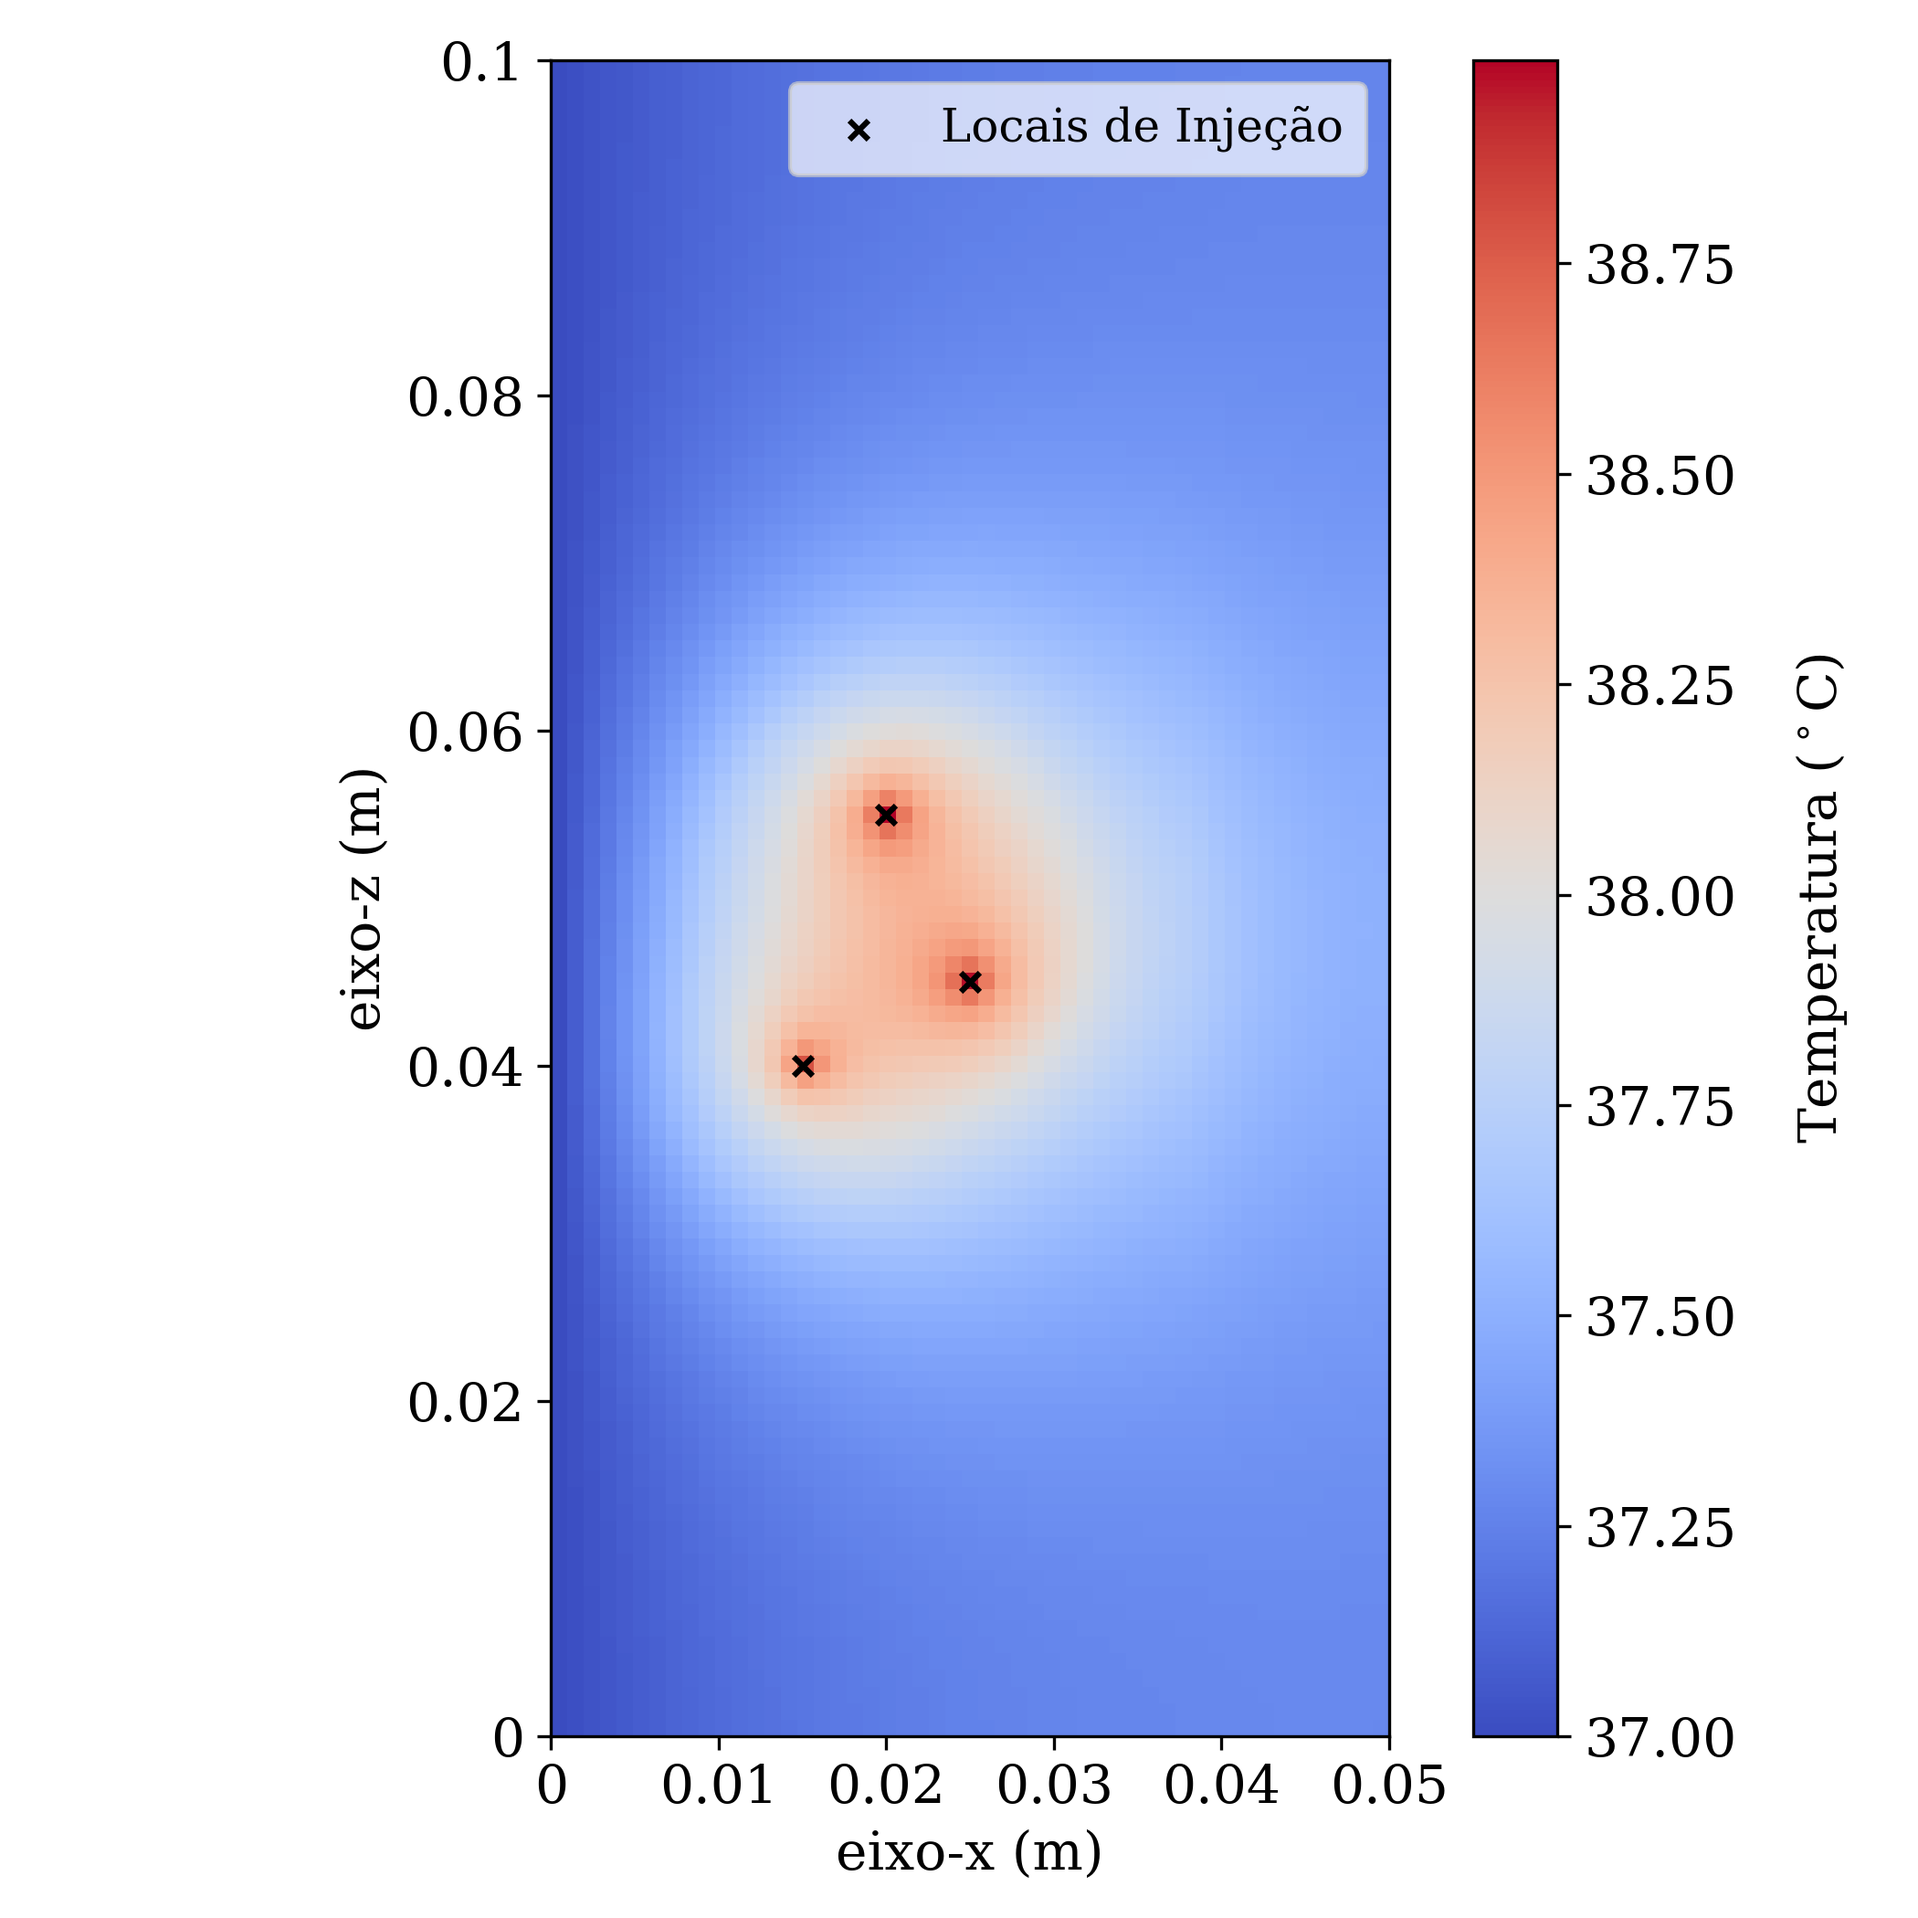
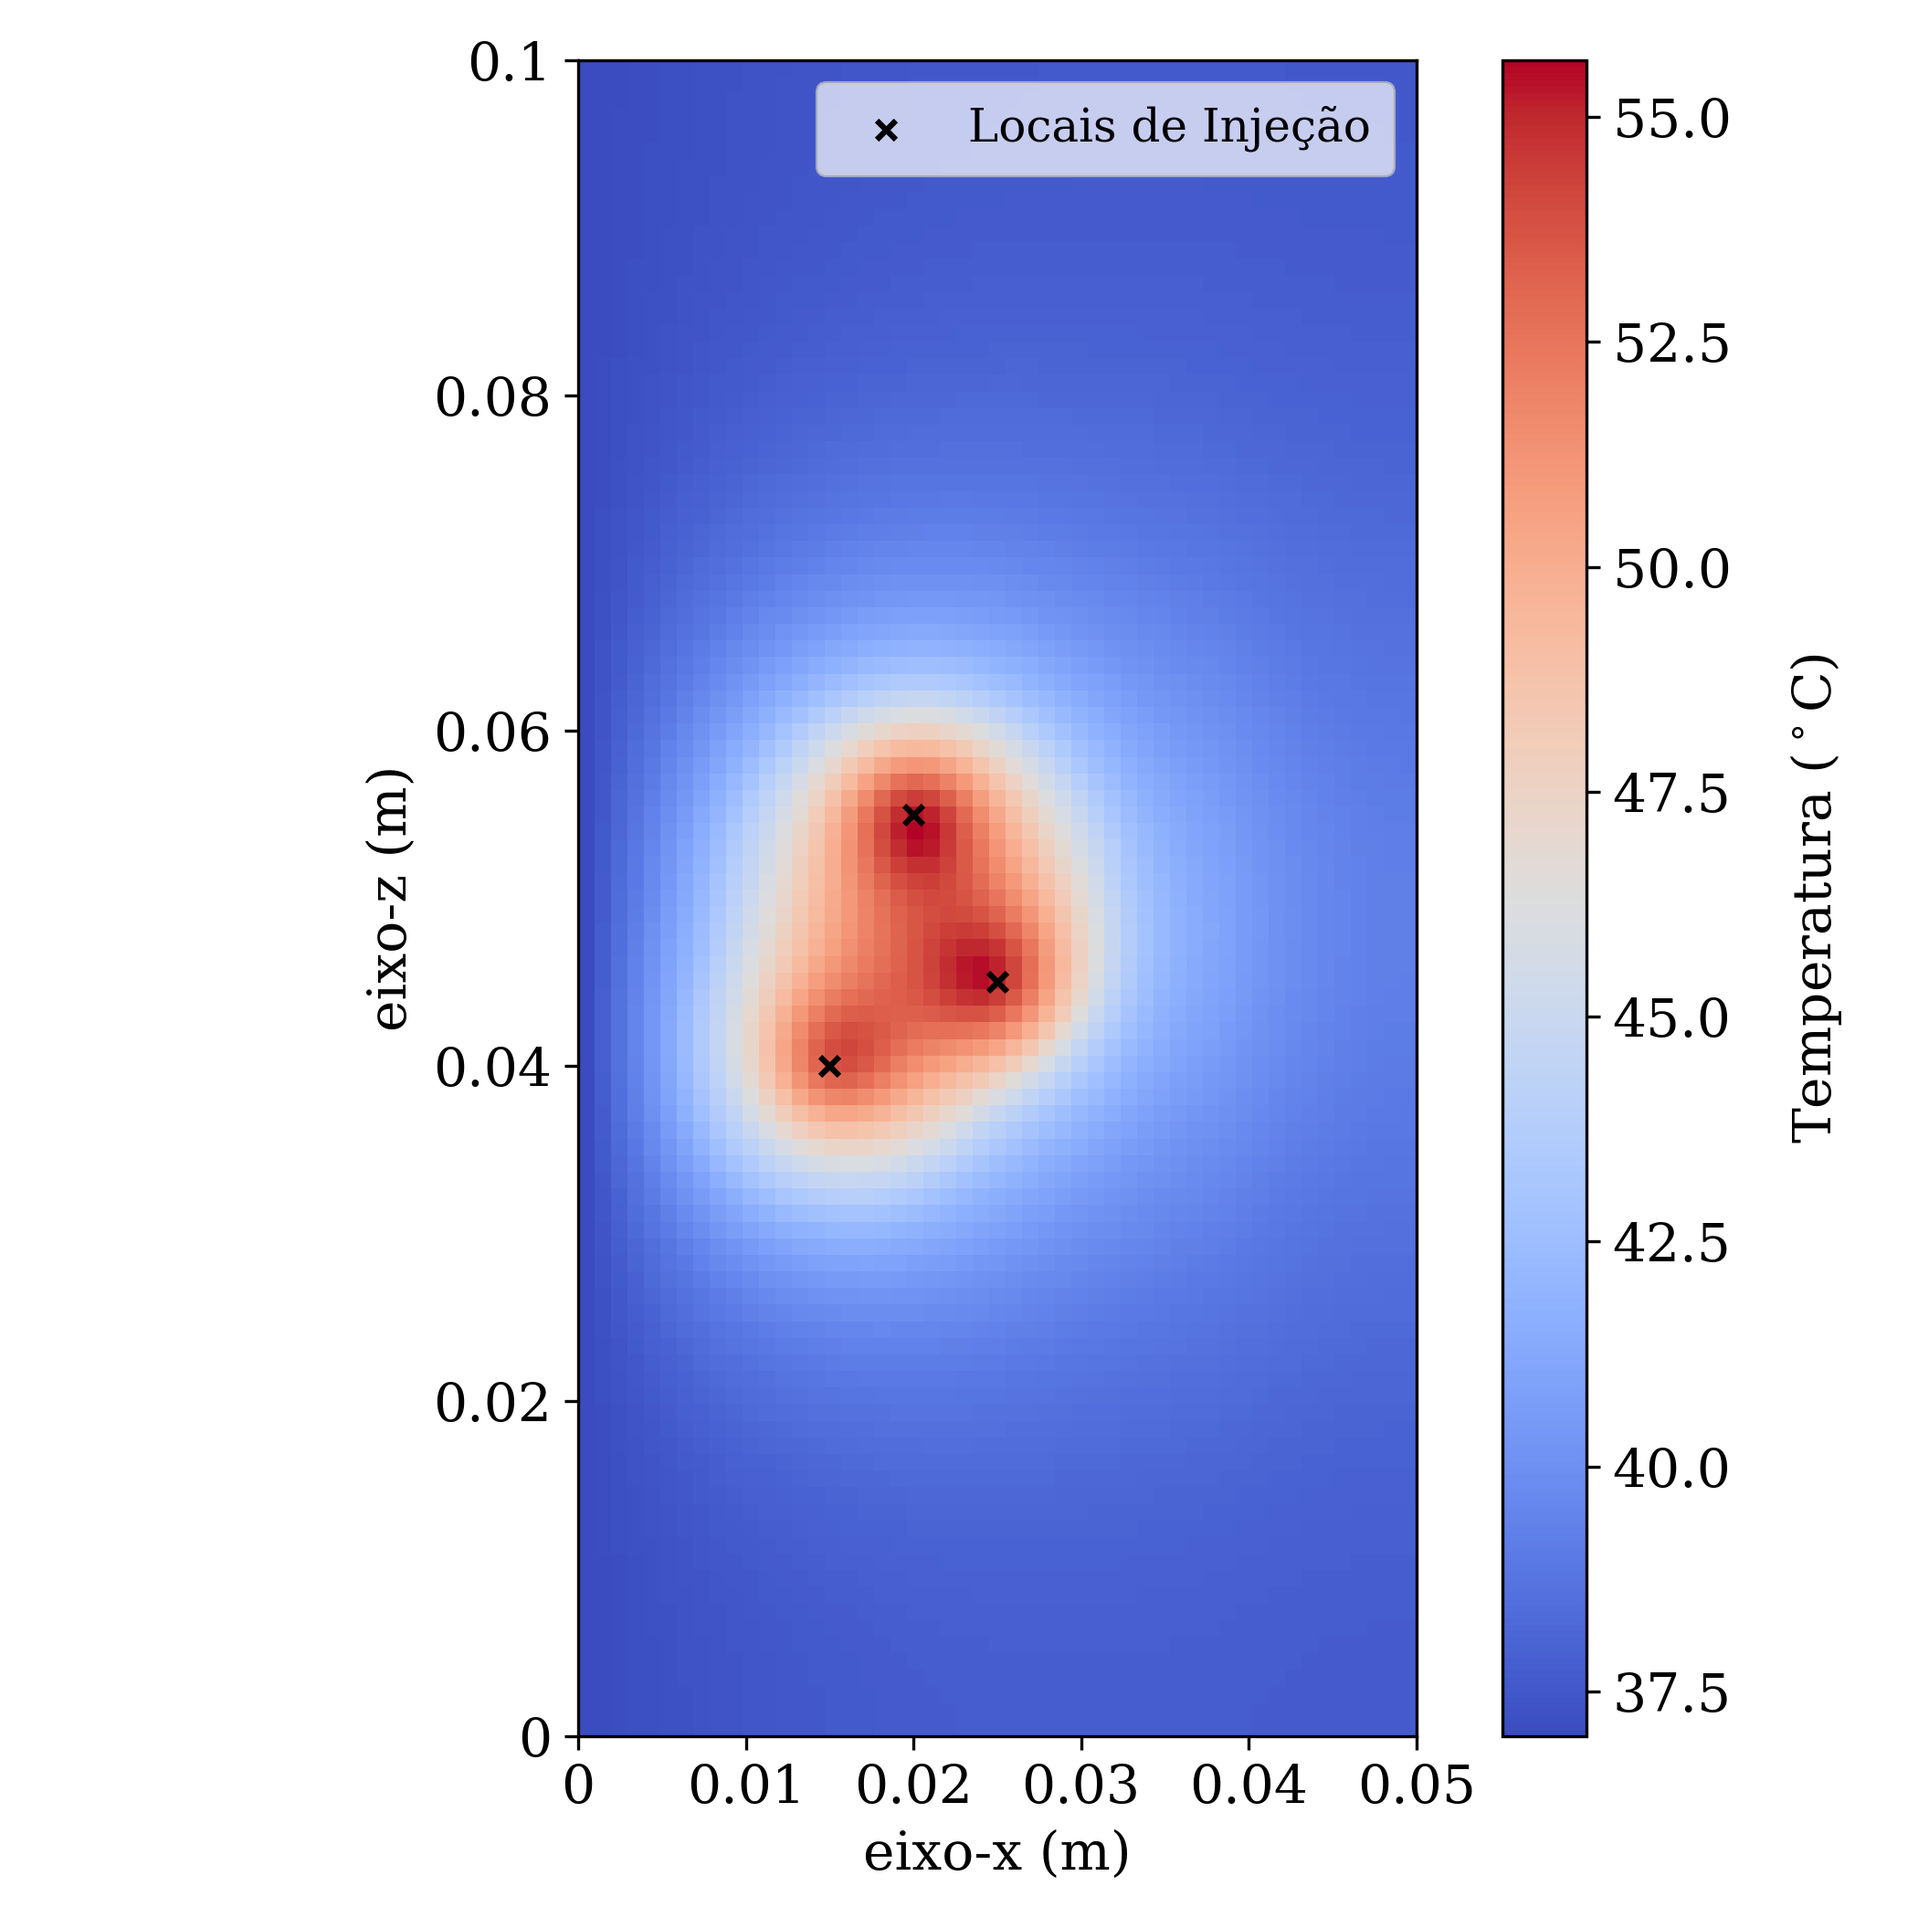
Conserta Hiperparâmetros da Hipertermia.

diff --git a/trabalho-1/c/utils.h b/trabalho-1/c/utils.h
@@ -98,7 +98,7 @@ real get_values_hyperthermia(real x, real z){
     real Q_1 = Ai1 * exp(- distance(x, y_fix, z, xi1, yi1, zi1) / (ri1*ri1));
     real Q_2 = Ai2 * exp(- distance(x, y_fix, z, xi2, yi2, zi2) / (ri2*ri2));
     real Q_3 = Ai3 * exp(- distance(x, y_fix, z, xi3, yi3, zi3) / (ri3*ri3));
-    return Q_1 + Q_2 + Q_3;
+    return Q_1+Q_2+Q_3;
 }
 
 void generate_hyperthermia_matrix(){
@@ -120,9 +120,9 @@ void init_vars(){
     z = arange(z0, zf, h);
 
     // /*Inicialização dos dados da hipertermia*/
-    xi1=0.02; yi1=y_fix; zi1=0.055; Ai1=0.8e6; ri1=0.6e-3;
-    xi2=0.025; yi2=y_fix; zi2=0.045; Ai2=0.7e6; ri2=0.6e-3;
-    xi3=0.015; yi3=y_fix; zi3=0.04; Ai3=0.7e6; ri3=0.6e-3;
+    xi1=0.02; yi1=y_fix; zi1=0.055; Ai1=0.8e6; ri1=0.3e-2;
+    xi2=0.025; yi2=y_fix; zi2=0.045; Ai2=0.7e6; ri2=0.3e-2;
+    xi3=0.015; yi3=y_fix; zi3=0.04; Ai3=0.7e6; ri3=0.3e-2;
 
     generate_tissue_matrix(); //obtém a matriz com os valores para melhorar desempenho depois
     generate_hyperthermia_matrix(); //obtém a matriz com os valores calculados da hipertermia para melhorar desempenho depois
